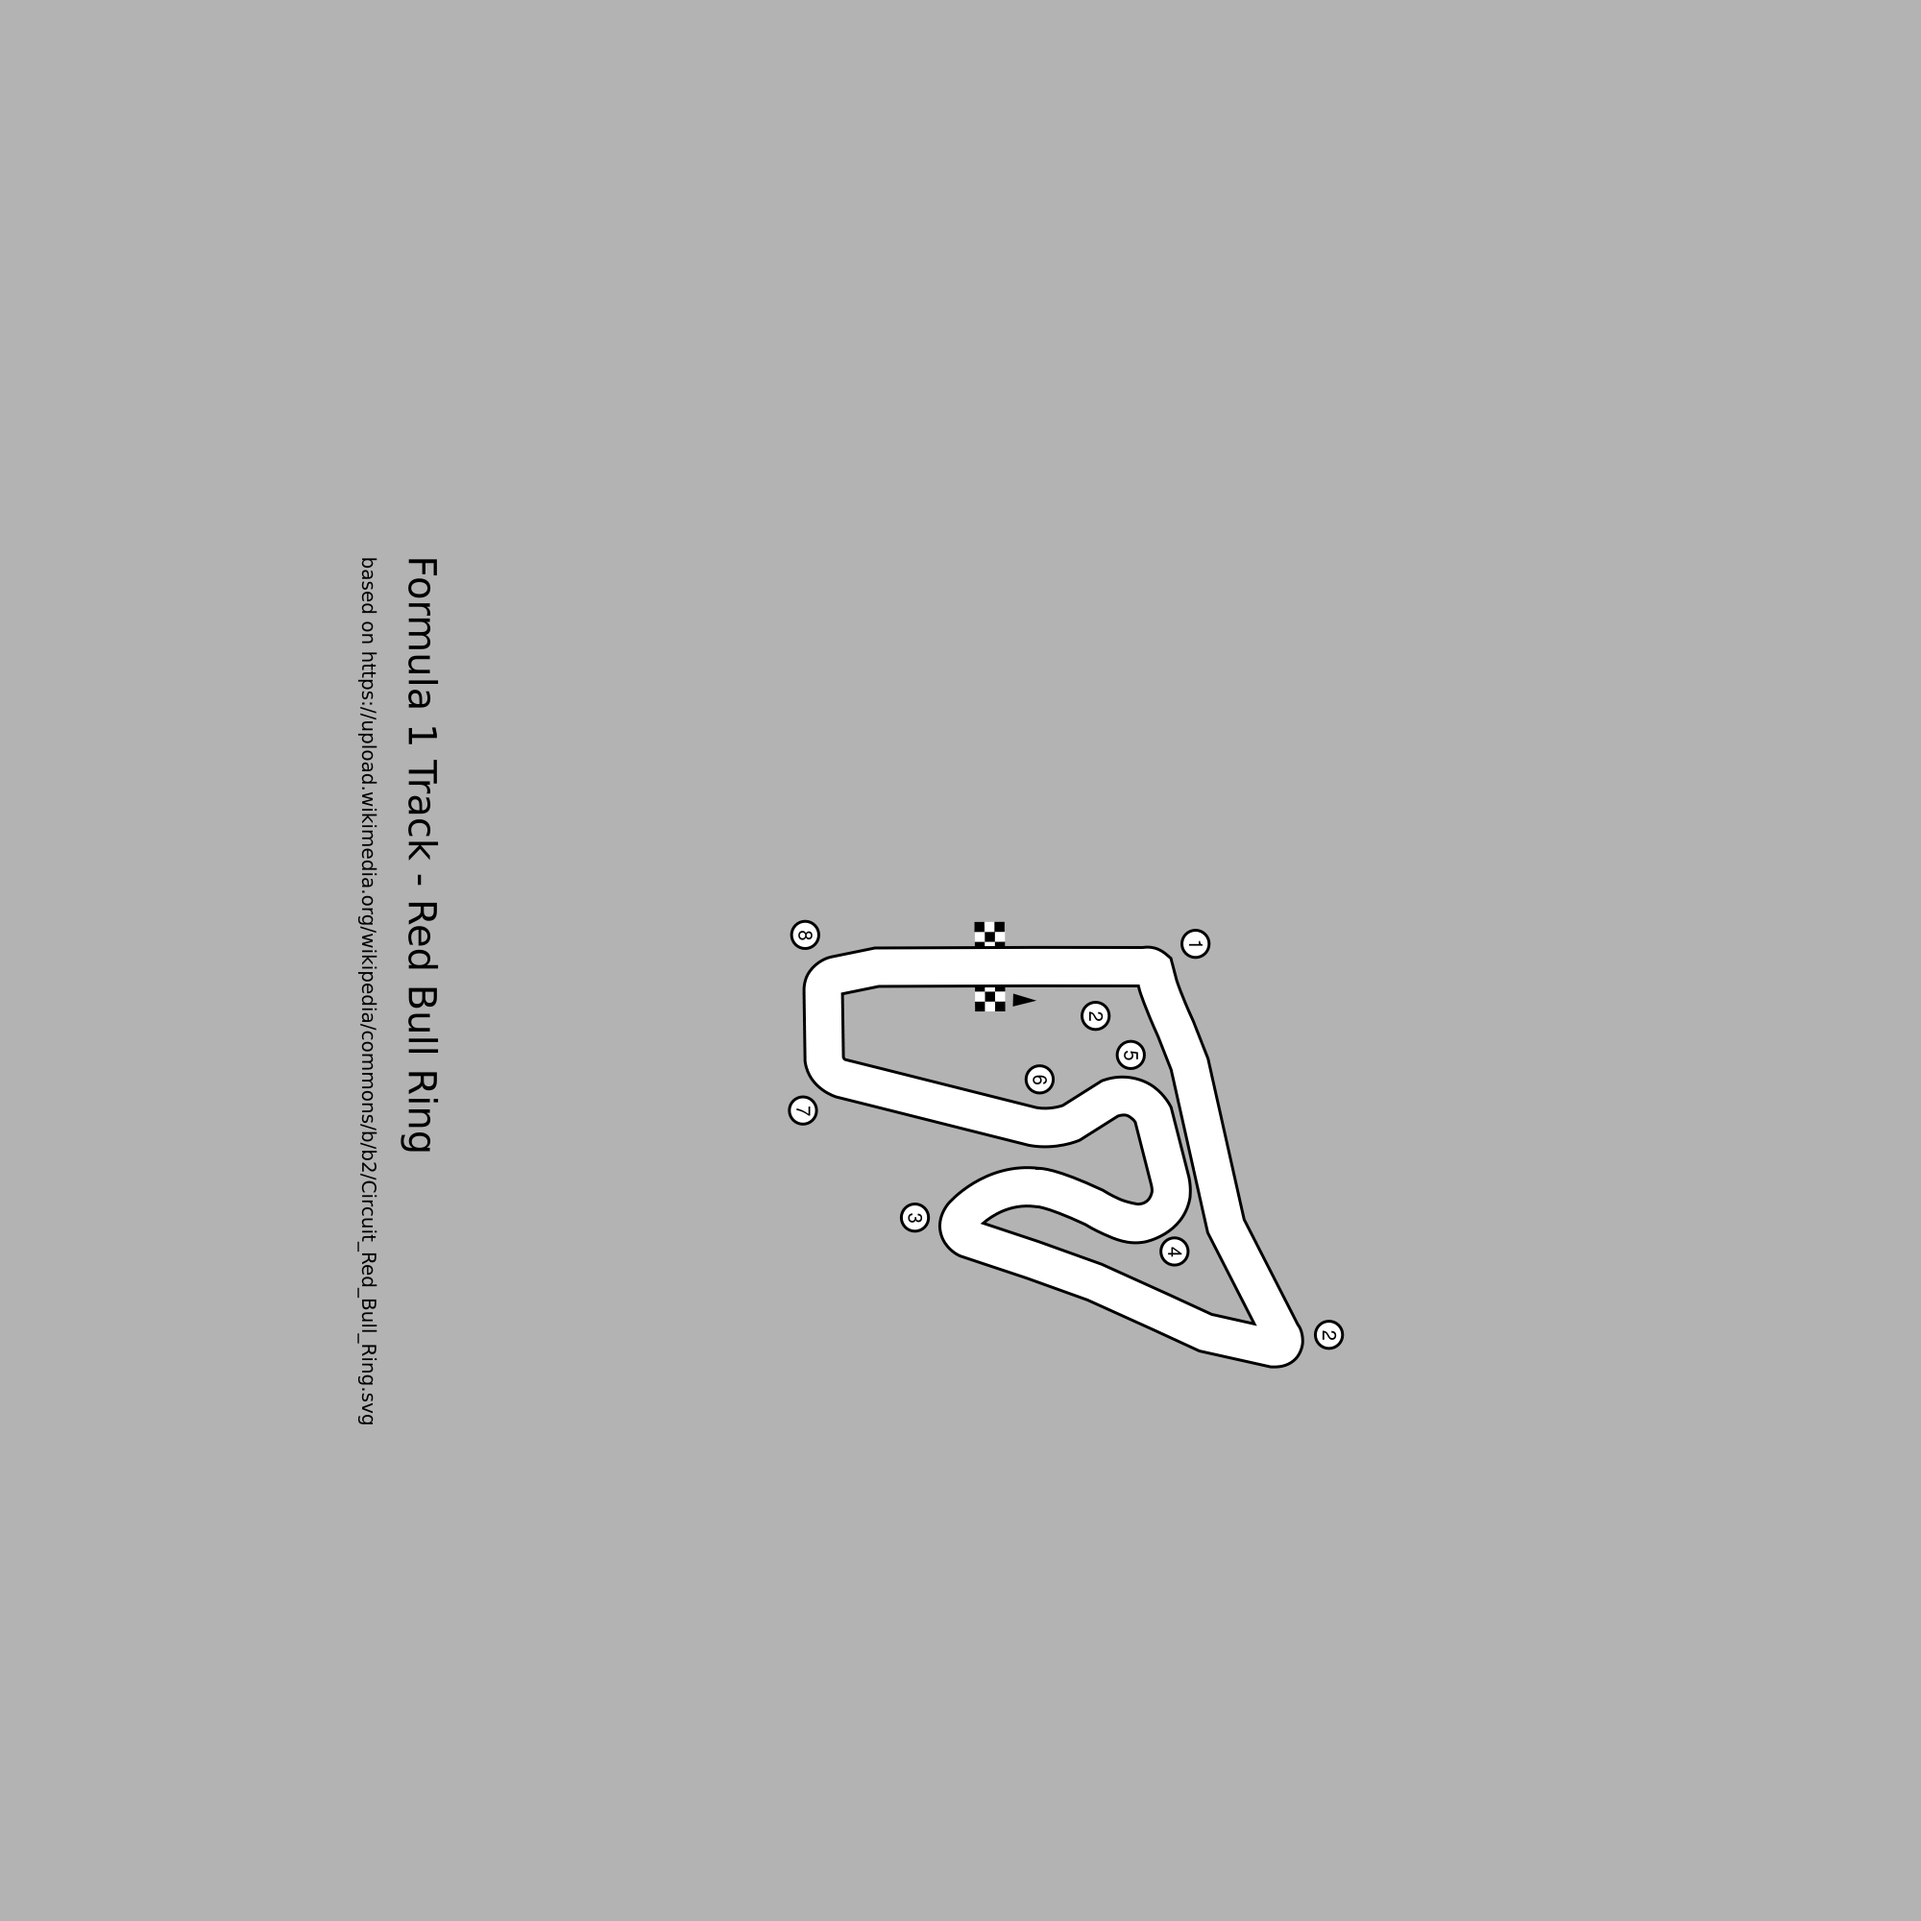
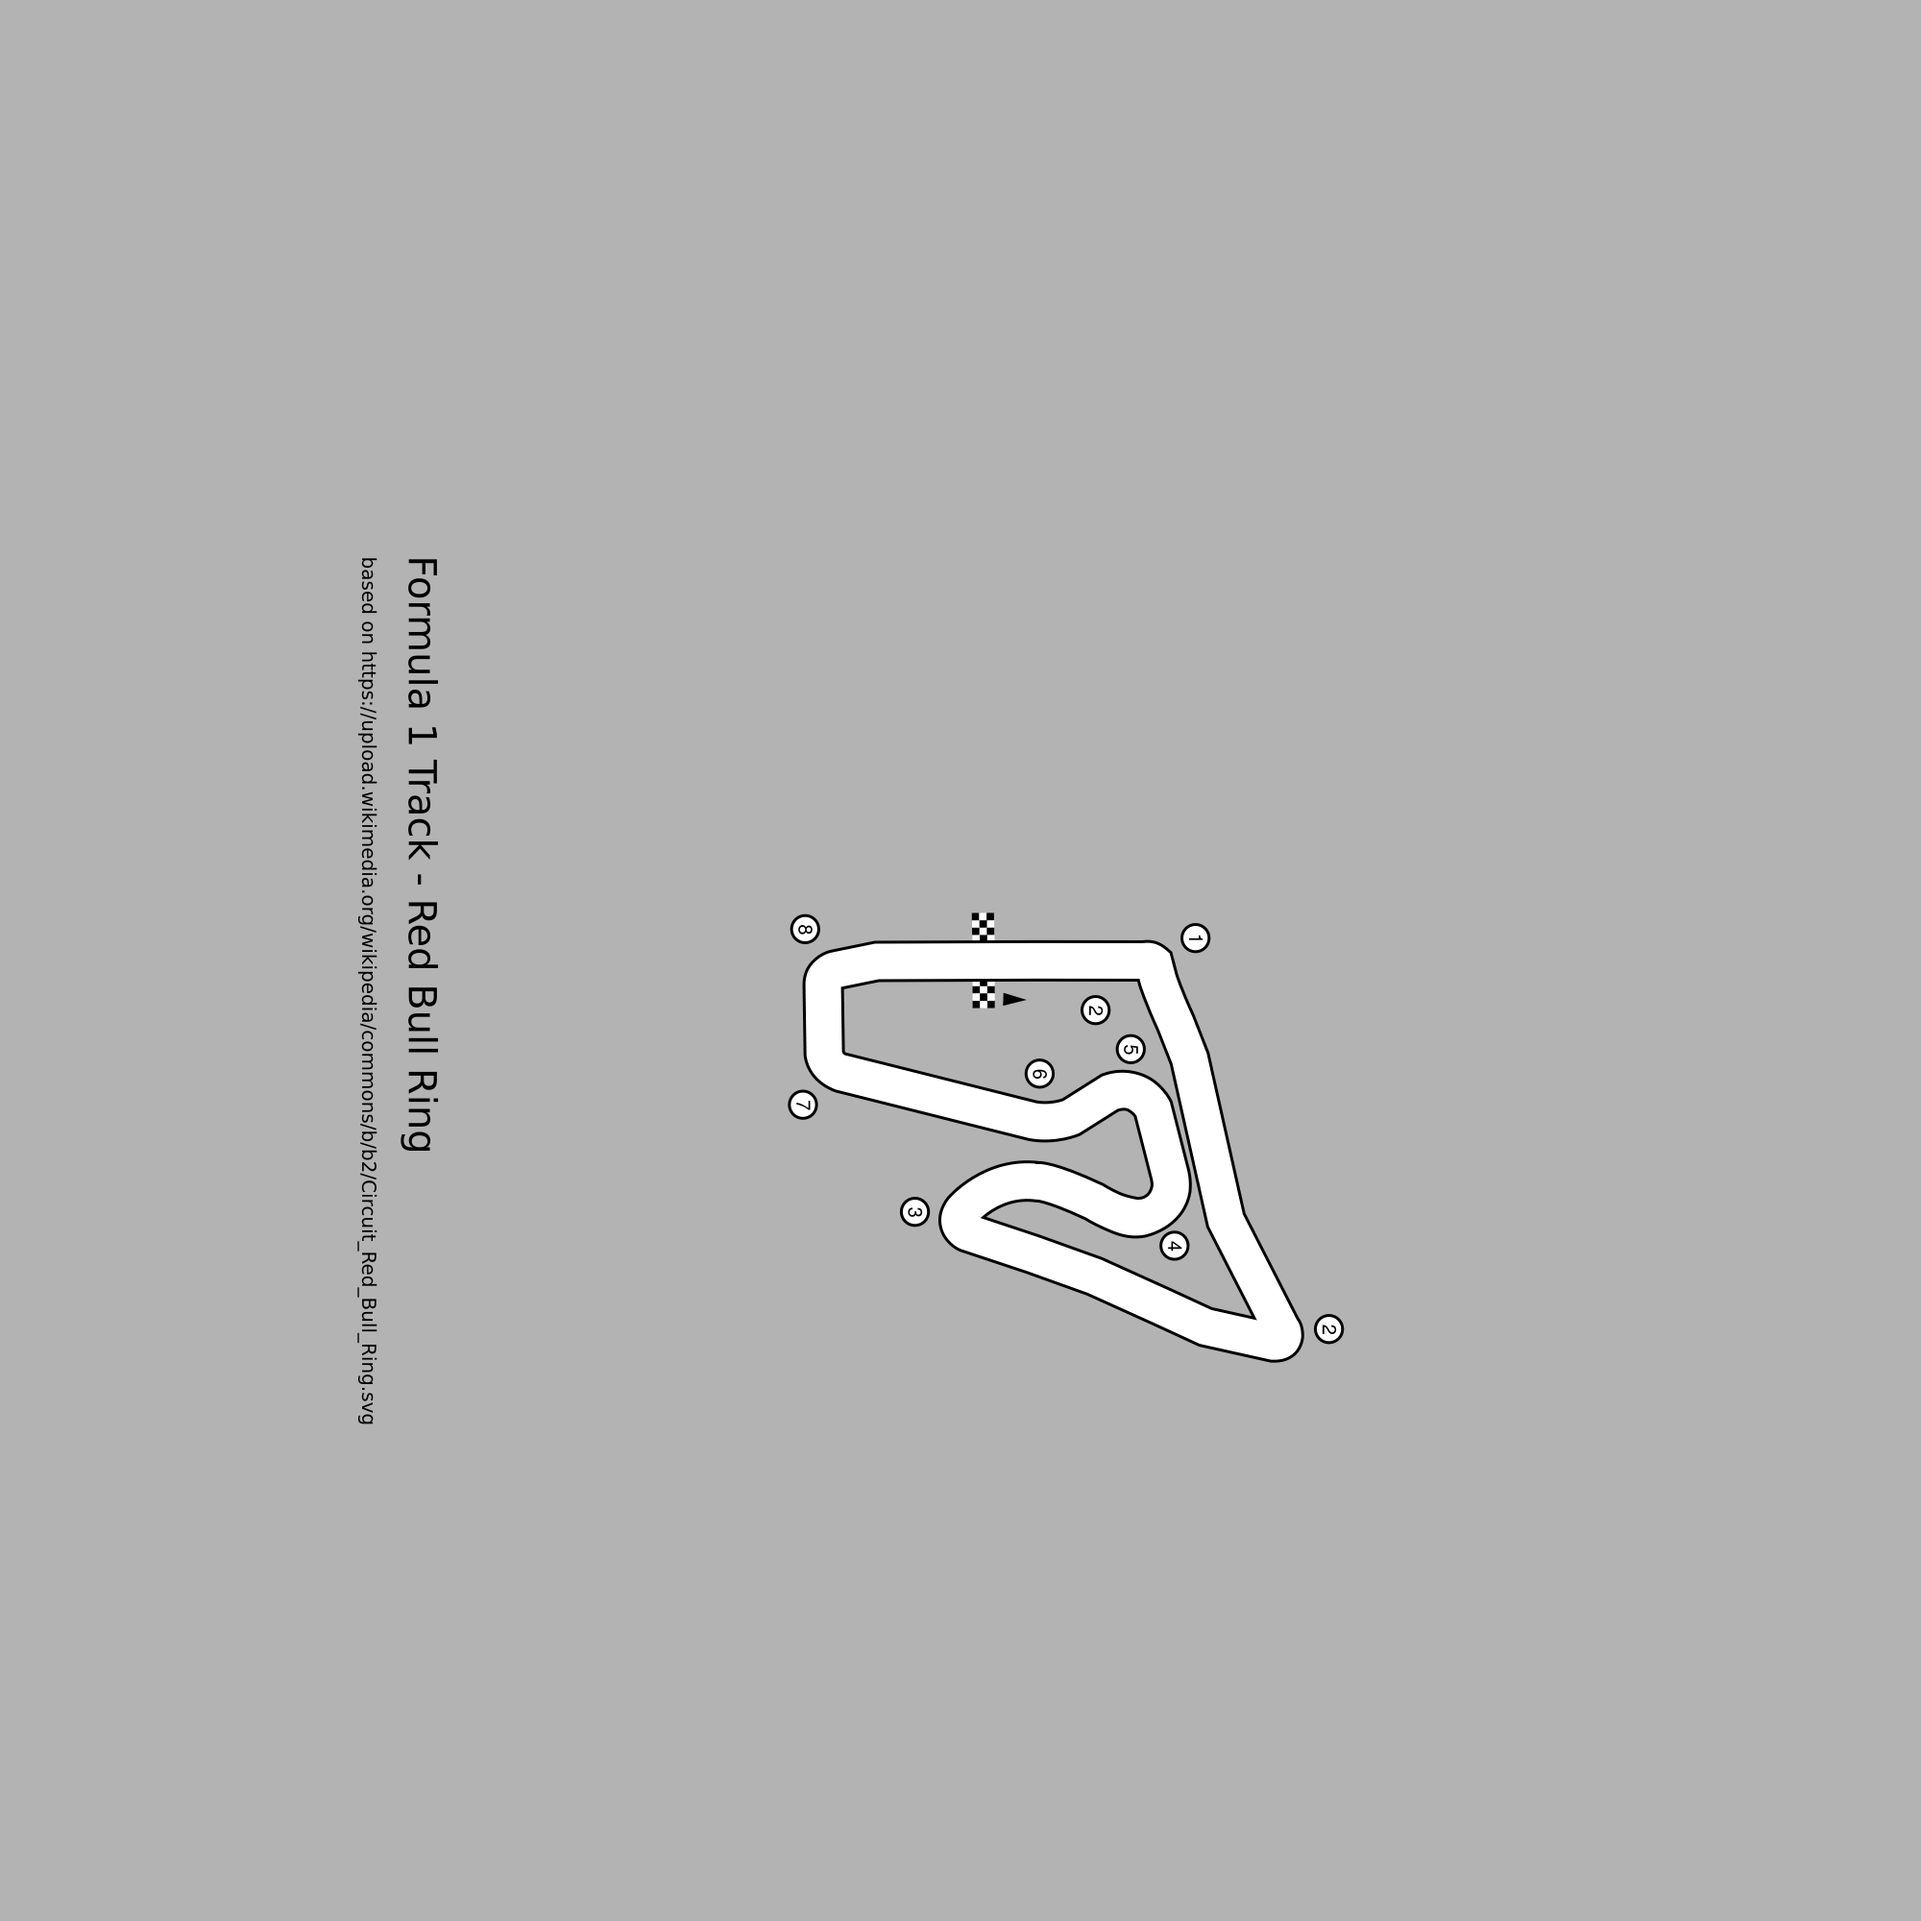
center aligned for f1_aut, misc costmap updates

Changed region(s): [[0.403, 0.465, 0.713, 0.713]]

diff --git a/costmaps/generate-costmap.py b/costmaps/generate-costmap.py
@@ -31,8 +31,10 @@ class CostmapGenerator:
             self.map_properties = yaml.safe_load(file)
 
         self.output_path = output_path
+        self.basename, _ = os.path.splitext(os.path.basename(input_yaml_path))
         self.output_filename_root, _ = os.path.splitext(self.output_path)
         self.input_directory = os.path.dirname(input_yaml_path)
+
         image_filename = os.path.join(self.input_directory, self.map_properties['image'])
         self.image = io.imread(image_filename, as_gray=True).astype(np.float)
         self.image_center = (self.image.shape + np.array(self.map_properties['origin'])[0:2] /
@@ -83,6 +85,27 @@ class CostmapGenerator:
         self.start_and_scale[self.grid_starting_position[1] - meter_in_pixel - 1][self.grid_starting_position[0] + 5 + 1] = 0
         self.start_and_scale[self.grid_starting_position[1] - meter_in_pixel + 1][self.grid_starting_position[0] + 5] = 0
         
+        if self.basename == "Treitlstrasse_3-U_v3":
+            print("map with custom settings: ", self.basename)
+            self.erosion_value = 9
+            self.d_value = 25
+            self.use_blurred_factor = True
+        elif self.basename == "f1_aut":
+            print("map with custom settings: ", self.basename)
+            self.erosion_value = 12
+            self.d_value = 30
+            self.use_blurred_factor = False
+        elif self.basename == "columbia_simple":
+            print("map with custom settings: ", self.basename)
+            self.erosion_value = 17
+            self.d_value = 35
+            self.use_blurred_factor = True
+        else:
+            print("no custom settings for map (use default): ", self.basename)
+            self.erosion_value = 12
+            self.d_value = 25
+            self.use_blurred_factor = True
+
 
         if self.verbose:
             print("Verbose infos:")
@@ -235,9 +258,12 @@ class CostmapGenerator:
         distances_blurred_border_start_blank = ndimage.gaussian_filter(distances_extended_start_blank, sigma=5) * drivable_area
         distances_blurred_border = distances_blurred_border_target_blank * mask_start + distances_blurred_border_start_blank * (1-mask_start)
 
-        if erosion_value == 0:
-            distances = distances + distances_blurred * 0.04 + distances_blurred_border * 0.02
-        else:
+        #if erosion_value == 0:
+        #    distances = distances + distances_blurred * 0.04 + distances_blurred_border * 0.02
+        #else:
+        #    distances = distances + distances_blurred * 0.08 + distances_blurred_border * 0.06
+
+        if self.use_blurred_factor:
             distances = distances + distances_blurred * 0.08 + distances_blurred_border * 0.06
 
         distances = distances * float(self.map_properties['resolution'])
@@ -296,7 +322,7 @@ class CostmapGenerator:
             io.imsave(self.output_filename_root + '.race_line_' + filename_part + '.png', img_as_ubyte(race_line * 255) - self.binary_image.astype(float) * 150)
 
         #d = 35
-        d = 25
+        d = self.d_value
         p = scipy_bspline(cv,n=1000,degree=d,periodic=True)
         
         cv_save = (cv - 1000) * self.map_properties['resolution']
@@ -335,8 +361,9 @@ class CostmapGenerator:
     def run(self):
 
         drivable_area_eroded, distance_to_target_eroded_smoothed, normalized_distance_to_target_eroded_smoothed, _, _, _, _ = \
-            self.compute_distance_transform_smoothed(starting_position=self.grid_starting_position, erosion_value = 9, forward_direction = False)
-                                                                                                    # erosion_value = 12
+            self.compute_distance_transform_smoothed(starting_position=self.grid_starting_position, \
+            erosion_value = self.erosion_value, forward_direction = False)
+
         drivable_area, distance_to_target_smoothed, normalized_distance_to_target_smoothed, _, _, _, _ = \
             self.compute_distance_transform_smoothed(starting_position=self.grid_starting_position, forward_direction = False)
 
